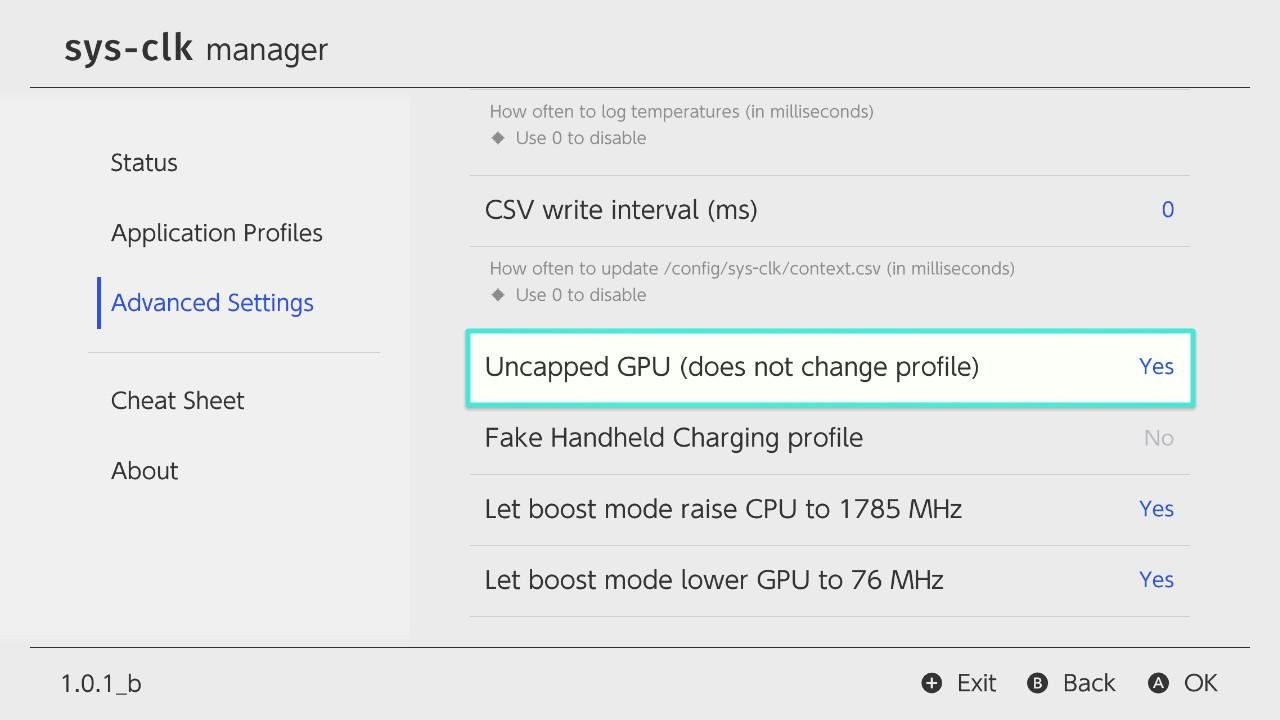
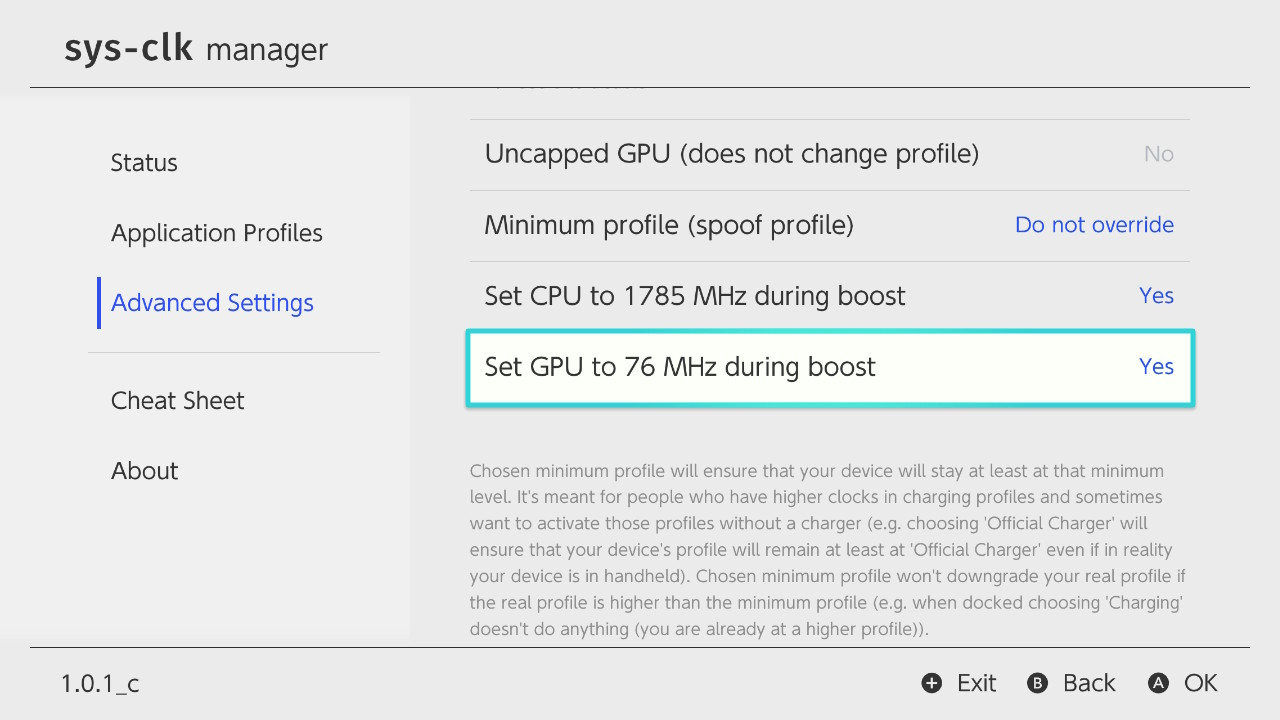
Updated screenshots and README.md

diff --git a/README.md b/README.md
@@ -2,6 +2,36 @@
 
 ![Screenshot](screenshot_overlay.jpg)
 
+![Screenshot](screenshot_profiles.jpg)
+
+## Custom configurations
+
+* Uncapped GPU (does not change profile)
+    1. Use whatever GPU value you want, no connected charger needed.
+    2. It doesn't change the profile, e.g without a charger you are still at profile 'Handheld'. If you need to change the profile without the requirement to connect a charger, use the setting 'Minimum profile'.
+    3. Possible values: `Yes` or `No`.
+    
+* Minimum profile (spoof profile)
+    1. Chosen minimum profile will ensure that your device will stay at least at that minimum level. 
+    2. It's meant for people who have higher clocks in charging profiles and sometimes want to activate those profiles without a charger (e.g. choosing 'Official Charger' will ensure that your device's profile will remain at least at 'Official Charger' even if in reality your device is in handheld). 
+    3. Chosen minimum profile won't downgrade your real profile if the real profile is higher than the minimum profile (e.g. when docked choosing 'Charging' doesn't do anything (you are already at a higher profile)).
+    4. Possible values:
+    `Do not override`,
+    `Charging`,
+    `USB Charger`,
+    `Official Charger` or
+    `Docked`.
+    
+* Set CPU to 1785 MHz during boost
+    1. Let boost mode override sys-clk value set for CPU during boost mode with the default 1785 MHz.
+    2. In most cases you want to enable this to get the best loading times. Don't enable if you want to use CPU clocks over 1785 MHz also during boost mode (you need to use a CPU patch to achieve this which most of people don't even have).
+    3. Possible values: `Yes` or `No`.
+
+* Set GPU to 76 MHz during boost
+    1. Let boost mode override sys-clk value set for GPU during boost mode with the default 76 MHz.
+    2. In most cases you want to enable this to get the best out of your battery life. 
+    2. Possible values: `Yes` or `No`.
+    
 # sys-clk
 
 Switch sysmodule allowing you to set cpu/gpu/mem clocks according to the running application and docked state.
